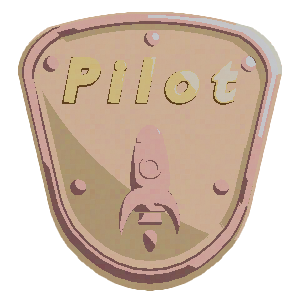
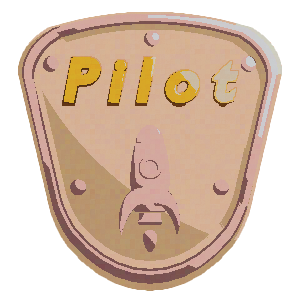
Added Specialist and Master Badges

diff --git a/assets/js/main.js b/assets/js/main.js
@@ -1040,14 +1040,14 @@ function draw()
 							1250, 700, 300*.5, 300*.5); // Always Get
 						if (finalTime < 50)
 						{
-							drawFrame (pilotBadge, 0, 0, 300, 300,
+							drawFrame (commanderBadge, 0, 0, 300, 300,
 									1250, 525, 300*.5, 300*.5); // Third Rank
 							if (finalTime < 45)
 							{
-								drawFrame (pilotBadge, 0, 0, 300, 300,
+								drawFrame (specialistBadge, 0, 0, 300, 300,
 									1250, 350, 300*.5, 300*.5); // Second Rank
 								if (finalTime < 40)
-									drawFrame (pilotBadge, 0, 0, 300, 300,
+									drawFrame (masterBadge, 0, 0, 300, 300,
 										1250, 175, 300*.5, 300*.5); // First Rank
 							}
 						}

diff --git a/assets/js/declareVars.js b/assets/js/declareVars.js
@@ -341,6 +341,12 @@ tcHUDSlash.src = "assets/img/tcHUDSlash.png";
 // Badges
 pilotBadge = new Image();
 pilotBadge.src = "assets/img/PilotBadge.png";
+commanderBadge = new Image();
+commanderBadge.src = "assets/img/CommanderBadge.png";
+specialistBadge = new Image();
+specialistBadge.src = "assets/img/SpecialistBadge.png";
+masterBadge = new Image();
+masterBadge.src = "assets/img/MasterBadge.png";
 
 // Star
 starSpritesheet = new Image();
